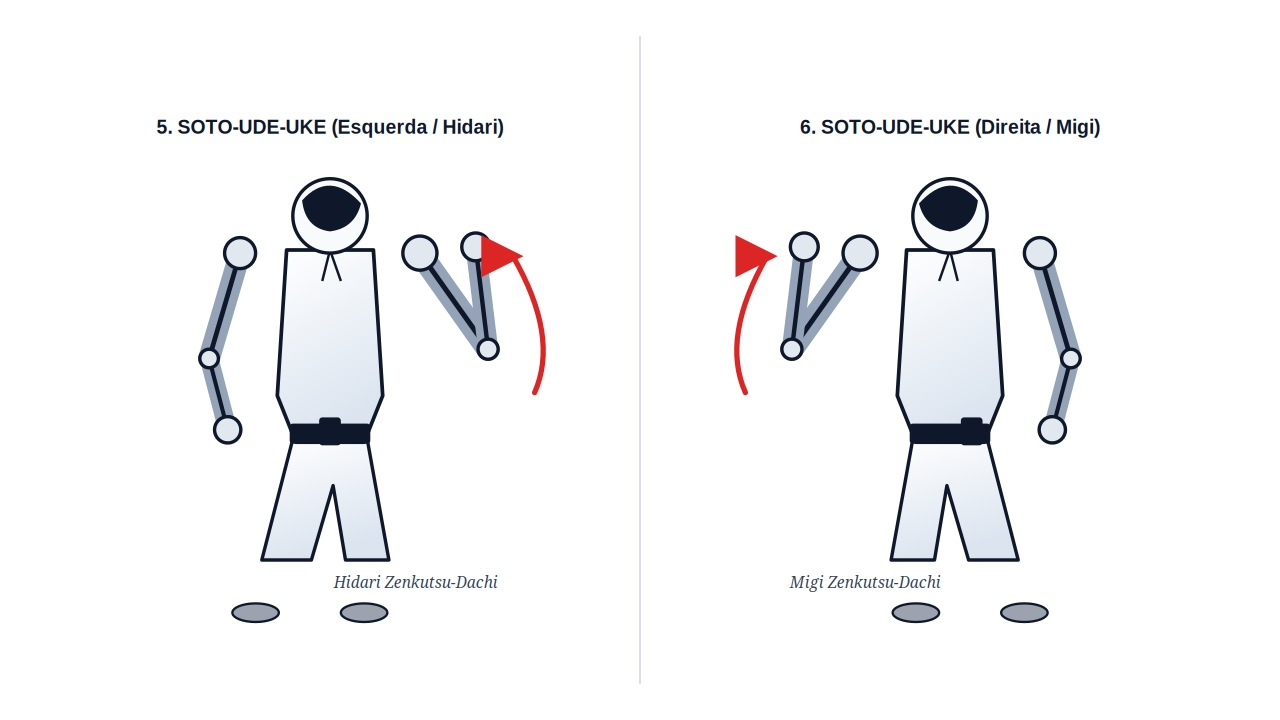
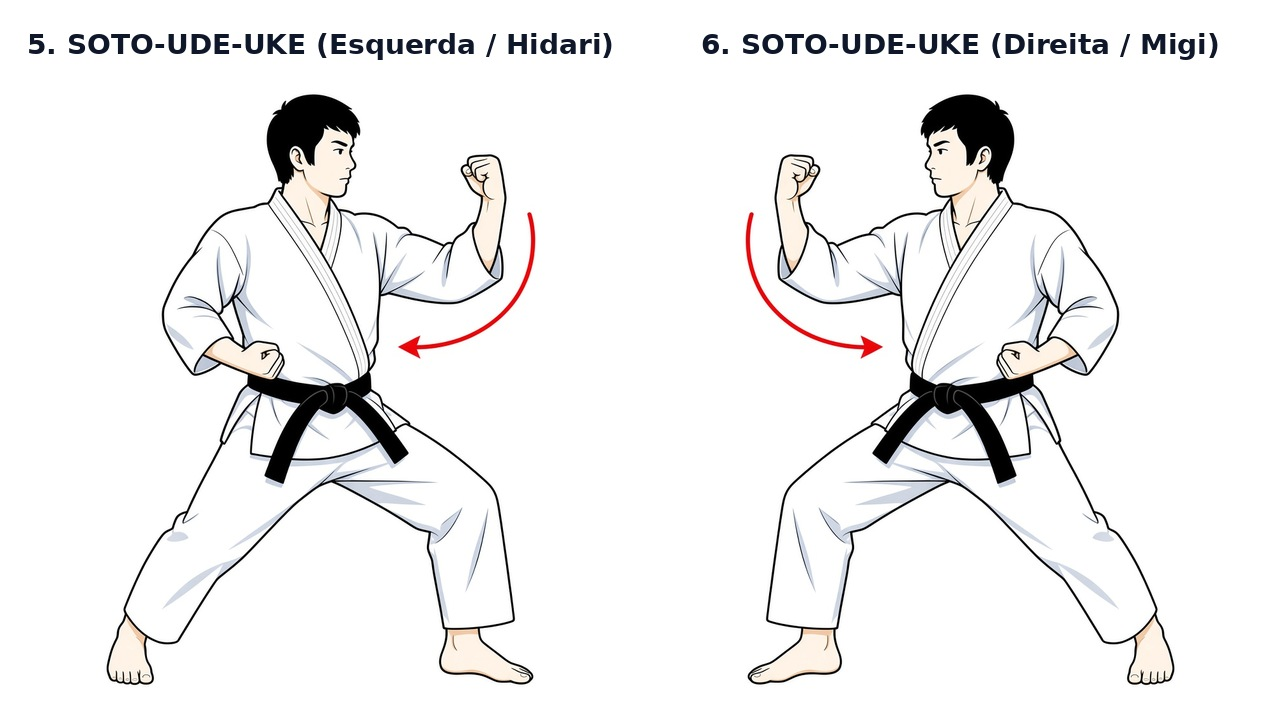
Fix Soto-Ude-Uke plates to match realistic illustration style
Replace geometric mannequin plates with karateka-style artwork
consistent with Age-Uke, Gedan Barai, and Uchi-Ude-Uke. Remove the
SVG mannequin generator and add a rebuild helper for the dual panel.

diff --git a/scripts/rebuild_soto_main_plate.py b/scripts/rebuild_soto_main_plate.py
@@ -1,0 +1,51 @@
+#!/usr/bin/env python3
+"""Rebuild 05_06_soto_ude_uke.jpg from realistic left/right panel sources."""
+from pathlib import Path
+import numpy as np
+from PIL import Image, ImageDraw
+
+ROOT = Path(__file__).resolve().parents[1]
+SRC = Path(__file__).resolve().parent / "illustration-sources"
+OUT = ROOT / "public" / "illustrations" / "05_06_soto_ude_uke.jpg"
+
+
+def trim_white(im: Image.Image, thresh: int = 248, pad: int = 20) -> Image.Image:
+    a = np.asarray(im.convert("RGB"))
+    mask = ~((a[:, :, 0] > thresh) & (a[:, :, 1] > thresh) & (a[:, :, 2] > thresh))
+    ys, xs = np.where(mask)
+    if len(xs) == 0:
+        return im
+    top, bottom = max(0, ys.min() - pad), min(im.height, ys.max() + pad)
+    left, right = max(0, xs.min() - pad), min(im.width, xs.max() + pad)
+    return im.crop((left, top, right, bottom))
+
+
+def fit(im: Image.Image, tw: int, th: int) -> Image.Image:
+    r = min(tw / im.width, th / im.height)
+    return im.resize(
+        (max(1, int(im.width * r)), max(1, int(im.height * r))),
+        Image.Resampling.LANCZOS,
+    )
+
+
+def main() -> None:
+    w, h = 1280, 720
+    p5 = trim_white(Image.open(SRC / "soto_panel5.jpg").convert("RGB"))
+    p6 = trim_white(Image.open(SRC / "soto_panel6.jpg").convert("RGB"))
+    half, margin = w // 2, 24
+    box_w, box_h = half - 2 * margin, h - 2 * margin
+    f5, f6 = fit(p5, box_w, box_h), fit(p6, box_w, box_h)
+    out = Image.new("RGB", (w, h), "white")
+    out.paste(f5, (margin + (box_w - f5.width) // 2, margin + (box_h - f5.height) // 2))
+    out.paste(
+        f6,
+        (half + margin + (box_w - f6.width) // 2, margin + (box_h - f6.height) // 2),
+    )
+    ImageDraw.Draw(out).line([(half, 48), (half, h - 48)], fill=(203, 213, 225), width=2)
+    OUT.parent.mkdir(parents=True, exist_ok=True)
+    out.save(OUT, "JPEG", quality=95, optimize=True, subsampling=0)
+    print(f"wrote {OUT} {out.size}")
+
+
+if __name__ == "__main__":
+    main()
